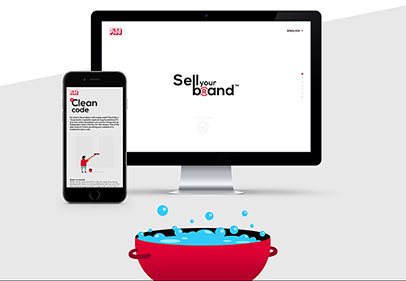
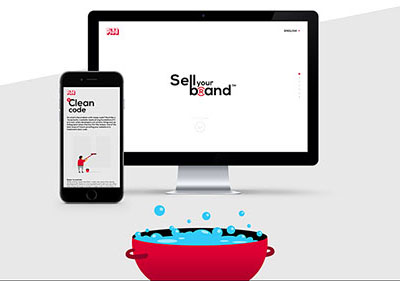
Modified css

diff --git a/startbootstrap-agency-4-dev/css/agency.css b/startbootstrap-agency-4-dev/css/agency.css
@@ -5,16 +5,16 @@
  */
 body {
   overflow-x: hidden;
-  font-family: "Roboto Slab", "Helvetica Neue", Helvetica, Arial, sans-serif; }
+  font-family: "Lato", "Helvetica Neue", Helvetica, Arial, sans-serif; }
 
 .text-primary {
-  color: #fed136 !important; }
+  color: #fd9500 !important; }
 
 p {
   line-height: 1.75; }
 
 a {
-  color: #fed136; }
+  color: #fd9500; }
   a:hover, a:focus, a:active, a.active {
     color: #fec503; }
 
@@ -23,10 +23,14 @@ h1, h2, h3, h4, h5, h6 {
   text-transform: uppercase;
   font-weight: 700; }
 
+header {
+  padding-top: 60px;
+}
+
 .btn-primary {
   color: white;
-  background-color: #fed136;
-  border-color: #fed136;
+  background-color: #fd9500;
+  border-color: #fd9500;
   font-family: "Montserrat", "Helvetica Neue", Helvetica, Arial, sans-serif;
   text-transform: uppercase;
   font-weight: 700; }
@@ -57,16 +61,16 @@ h1, h2, h3, h4, h5, h6 {
   fieldset[disabled] .btn-primary:hover,
   fieldset[disabled] .btn-primary:focus,
   fieldset[disabled] .btn-primary.focus {
-    background-color: #fed136;
-    border-color: #fed136; }
+    background-color: #fd9500;
+    border-color: #fd9500; }
   .btn-primary .badge {
-    color: #fed136;
+    color: #fd9500;
     background-color: white; }
 
 .btn-xl {
   color: white;
-  background-color: #fed136;
-  border-color: #fed136;
+  background-color: #fd9500;
+  border-color: #fd9500;
   font-family: "Montserrat", "Helvetica Neue", Helvetica, Arial, sans-serif;
   text-transform: uppercase;
   font-weight: 700;
@@ -100,23 +104,22 @@ h1, h2, h3, h4, h5, h6 {
   fieldset[disabled] .btn-xl:hover,
   fieldset[disabled] .btn-xl:focus,
   fieldset[disabled] .btn-xl.focus {
-    background-color: #fed136;
-    border-color: #fed136; }
+    background-color: #fd9500;
+    border-color: #fd9500; }
   .btn-xl .badge {
-    color: #fed136;
+    color: #fd9500;
     background-color: white; }
 
 #mainNav {
   background-color: #222222; }
   #mainNav .navbar-toggler {
     border: 0;
-    color: white;
-    background-color: #fed136;
-    font-size: 12px;
+    color: #fd9500;
+    font-size: 30px;
     text-transform: uppercase;
     font-family: "Montserrat", "Helvetica Neue", Helvetica, Arial, sans-serif;
     text-transform: uppercase;
-    padding: 13px;
+    padding: 25px;
     right: 0; }
   #mainNav .container {
     padding: 0; }
@@ -131,6 +134,7 @@ h1, h2, h3, h4, h5, h6 {
       color: #1B95FC;} 
       #mainNav .container .navbar-brand:hover, #mainNav .container .navbar-brand:focus, #mainNav .container .navbar-brand:active, #mainNav .container .navbar-brand.active {
         color: #fec503; }
+      #mainNav #navbarResponsive { margin-top: 10px; }
     #mainNav .container .navbar-nav .nav-item .nav-link {
       font-size: 90%;
       padding: 0.75em 0;
@@ -140,7 +144,7 @@ h1, h2, h3, h4, h5, h6 {
       letter-spacing: 1px;
       color: white; }
       #mainNav .container .navbar-nav .nav-item .nav-link:hover, #mainNav .container .navbar-nav .nav-item .nav-link.active {
-        color: #fed136; }
+        color: #fd9500; }
 
 @media (min-width: 992px) {
   #mainNav {
@@ -181,7 +185,7 @@ header {
     padding-top: 100px;
     padding-bottom: 50px; }
     header .intro-text .intro-lead-in {
-      font-family: "Droid Serif", "Helvetica Neue", Helvetica, Arial, sans-serif;
+      font-family: "Raleway", "Helvetica Neue", Helvetica, Arial, sans-serif;
       font-style: italic;
       font-size: 22px;
       line-height: 22px;
@@ -199,7 +203,7 @@ header {
     padding-top: 300px;
     padding-bottom: 200px; }
     header .intro-text .intro-lead-in {
-      font-family: "Droid Serif", "Helvetica Neue", Helvetica, Arial, sans-serif;
+      font-family: "Raleway", "Helvetica Neue", Helvetica, Arial, sans-serif;
       font-style: italic;
       font-size: 40px;
       line-height: 40px;
@@ -210,7 +214,8 @@ header {
       font-weight: 700;
       font-size: 75px;
       line-height: 75px;
-      margin-bottom: 50px; } }
+      margin-bottom: 50px; }
+}
 
 section {
   padding: 100px 0; }
@@ -220,7 +225,7 @@ section {
     margin-bottom: 15px; }
   section h3.section-subheading {
     font-size: 16px;
-    font-family: "Droid Serif", "Helvetica Neue", Helvetica, Arial, sans-serif;
+    font-family: "Raleway", "Helvetica Neue", Helvetica, Arial, sans-serif;
     text-transform: none;
     font-style: italic;
     font-weight: 400;
@@ -272,12 +277,13 @@ section {
     margin: 0 auto;
     background-color: white;
     text-align: center;
-    padding: 25px; }
+    padding: 25px;
+    min-height: 158px; }
     #portfolio .portfolio-item .portfolio-caption h4 {
       text-transform: none;
       margin: 0; }
     #portfolio .portfolio-item .portfolio-caption p {
-      font-family: "Droid Serif", "Helvetica Neue", Helvetica, Arial, sans-serif;
+      font-family: "Raleway", "Helvetica Neue", Helvetica, Arial, sans-serif;
       font-style: italic;
       font-size: 16px;
       margin: 0; }
@@ -289,6 +295,9 @@ section {
   #portfolio .portfolio-item {
     margin: 0 0 30px; } }
 
+.timeline h4 {
+  font-weight: 500;
+}
 .timeline {
   list-style: none;
   padding: 0;
@@ -334,7 +343,7 @@ section {
       height: 80px;
       position: absolute;
       z-index: 100;
-      background-color: #fed136;
+      background-color: #fd9500;
       color: white;
       border-radius: 100%;
       border: 7px solid #f1f1f1;
@@ -438,7 +447,7 @@ section {
     margin-top: 0; }
 
 aside.clients img {
-  margin: 50px auto; }
+  margin: 20px auto; }
 
 section#contact {
   background-color: #FFFFFF;
@@ -457,7 +466,7 @@ section#contact {
     section#contact .form-group textarea.form-control {
       height: 236px; }
   section#contact .form-control:focus {
-    border-color: #fed136;
+    border-color: #fd9500;
     box-shadow: none; }
   section#contact ::-webkit-input-placeholder {
     font-family: "Montserrat", "Helvetica Neue", Helvetica, Arial, sans-serif;
@@ -517,7 +526,7 @@ ul.social-buttons {
     -moz-transition: all 0.3s;
     transition: all 0.3s; }
     ul.social-buttons li a:hover, ul.social-buttons li a:focus, ul.social-buttons li a:active {
-      background-color: #fed136; }
+      background-color: #fd9500; }
 
 .btn:focus,
 .btn:active,
@@ -546,7 +555,7 @@ ul.social-buttons {
     margin-bottom: 30px; }
   .portfolio-modal .modal-content p.item-intro {
     margin: 20px 0 30px;
-    font-family: "Droid Serif", "Helvetica Neue", Helvetica, Arial, sans-serif;
+    font-family: "Raleway", "Helvetica Neue", Helvetica, Arial, sans-serif;
     font-style: italic;
     font-size: 16px; }
   .portfolio-modal .modal-content ul.list-inline {
@@ -593,11 +602,11 @@ ul.social-buttons {
 
 ::-moz-selection {
   text-shadow: none;
-  background: #fed136; }
+  background: #fd9500; }
 
 ::selection {
   text-shadow: none;
-  background: #fed136; }
+  background: #fd9500; }
 
 img::selection {
   background: transparent; }
@@ -606,4 +615,4 @@ img::-moz-selection {
   background: transparent; }
 
 body {
-  webkit-tap-highlight-color: #fed136; }
+  webkit-tap-highlight-color: #fd9500; }

diff --git a/startbootstrap-agency-4-dev/css/agency-changes.css b/startbootstrap-agency-4-dev/css/agency-changes.css
@@ -1,0 +1,134 @@
+// Links
+// byte av färger
+a {
+    //color: #fed136;
+    color: #fd9500; }
+
+// Button
+// byte av färger
+.btn-primary {
+    color: white;
+    //background-color: #fed136;
+    //border-color: #fed136;
+    background-color: #fd9500;
+    border-color: #fd9500;
+    font-family: "Montserrat", "Helvetica Neue", Helvetica, Arial, sans-serif;
+    text-transform: uppercase;
+    font-weight: 700;
+}
+
+//Navbar
+//byte av färger
+#mainNav .navbar-toggler {
+    border: 0;
+    //color: white;
+    color: #fd9500;
+    //background-color: #fd9500;
+    //font-size: 12px;
+    font-size: 30px;
+    text-transform: uppercase;
+    font-family: "Montserrat", "Helvetica Neue", Helvetica, Arial, sans-serif;
+    text-transform: uppercase;
+    //padding: 13px;
+    padding: 25px;
+    right: 0; }
+
+
+//Fonts
+// Ändring av fonter
+
+//font-family: "Droid Serif", "Helvetica Neue", Helvetica, Arial, sans-serif;
+font-family: "Raleway", "Helvetica Neue", Helvetica, Arial, sans-serif;
+
+
+//Timeline
+
+//mindre tjocklek på rubrik
+.timeline h4 {
+  font-weight: 500;
+}
+
+// Mindre min-height i tablet-läge
+@media (min-width: 768px) {
+    .timeline:before {
+        left: 50%; }
+    .timeline > li {
+        //margin-bottom: 100px; //gets 50px as default
+        min-height: 100px; }
+    .timeline > li .timeline-panel {
+        width: 41%;
+        float: left;
+        padding: 0 20px 20px 30px;
+        text-align: right; }
+    .timeline > li .timeline-image {
+        width: 100px;
+        height: 100px;
+        left: 50%;
+        margin-left: -50px; }
+    .timeline > li .timeline-image h4 {
+        font-size: 13px;
+        margin-top: 16px;
+        line-height: 18px; }
+    .timeline > li.timeline-inverted > .timeline-panel {
+        float: right;
+        text-align: left;
+        padding: 0 30px 20px 20px; } }
+
+
+// Kundcase
+// Utjämning av rutor
+@media (min-width: 768px) {
+    #portfolio .portfolio-item .portfolio-caption {
+        max-width: 400px;
+        margin: 0 auto;
+        background-color: white;
+        text-align: center;
+        padding: 25px;
+        ** min-height: 155px;
+    }
+}
+
+// Client logos
+// minska marginal för raden med loggorna
+
+   aside.clients img {
+       //margin: 50px auto;
+       margin: 20px auto; }
+// MainNav
+// La till marginal 10px för länlistan i mobilt läge
+
+#mainNav {
+    background-color: #222222; }
+#mainNav .navbar-toggler {
+    border: 0;
+    color: #fd9500;
+    font-size: 30px;
+    text-transform: uppercase;
+    font-family: "Montserrat", "Helvetica Neue", Helvetica, Arial, sans-serif;
+    text-transform: uppercase;
+    padding: 25px;
+    right: 0; }
+#mainNav .container {
+    padding: 0; }
+#mainNav .container .navbar-brand {
+    color: #FD9500;
+    font-family: Abel, cursive;
+    margin-left: 55px;
+    text-indent: -55px;
+    line-height: 80%;
+    font-size: 3em;}
+#mainNav .container .navbar-brand:first-line {
+    color: #1B95FC;}
+#mainNav .container .navbar-brand:hover, #mainNav .container .navbar-brand:focus, #mainNav .container .navbar-brand:active, #mainNav .container .navbar-brand.active {
+    color: #fec503; }
+** #mainNav #navbarResponsive { margin-top: 10px; }
+#mainNav .container .navbar-nav .nav-item .nav-link {
+    font-size: 90%;
+    padding: 0.75em 0;
+    font-family: "Montserrat", "Helvetica Neue", Helvetica, Arial, sans-serif;
+    text-transform: uppercase;
+    font-weight: 400;
+    letter-spacing: 1px;
+    color: white; }
+#mainNav .container .navbar-nav .nav-item .nav-link:hover, #mainNav .container .navbar-nav .nav-item .nav-link.active {
+    color: #fd9500; }

diff --git a/startbootstrap-agency-4-dev/index.html b/startbootstrap-agency-4-dev/index.html
@@ -45,7 +45,7 @@
     <nav class="navbar fixed-top navbar-toggleable-md navbar-inverse" id="mainNav">
         <div class="container">
             <button class="navbar-toggler navbar-toggler-right" type="button" data-toggle="collapse" data-target="#navbarResponsive" aria-controls="navbarResponsive" aria-expanded="false" aria-label="Toggle navigation">
-                Menu <i class="fa fa-bars"></i>
+                 <i class="fa fa-bars"></i>
             </button>
             <a class="navbar-brand page-scroll" href="#page-top">Mbit<br>Agency</a>
             <div class="collapse navbar-collapse" id="navbarResponsive">
@@ -196,7 +196,7 @@
                     </a>
                     <div class="portfolio-caption">
                         <h4>Sell your brand</h4>
-                        <p class="text-muted">Rådgivning för företag som vill ta det extra steget</p>
+                        <p class="text-muted">Rådgivning för företag som vill mer</p>
                     </div>
                 </div>
                 <div class="col-md-4 col-sm-6 portfolio-item">
